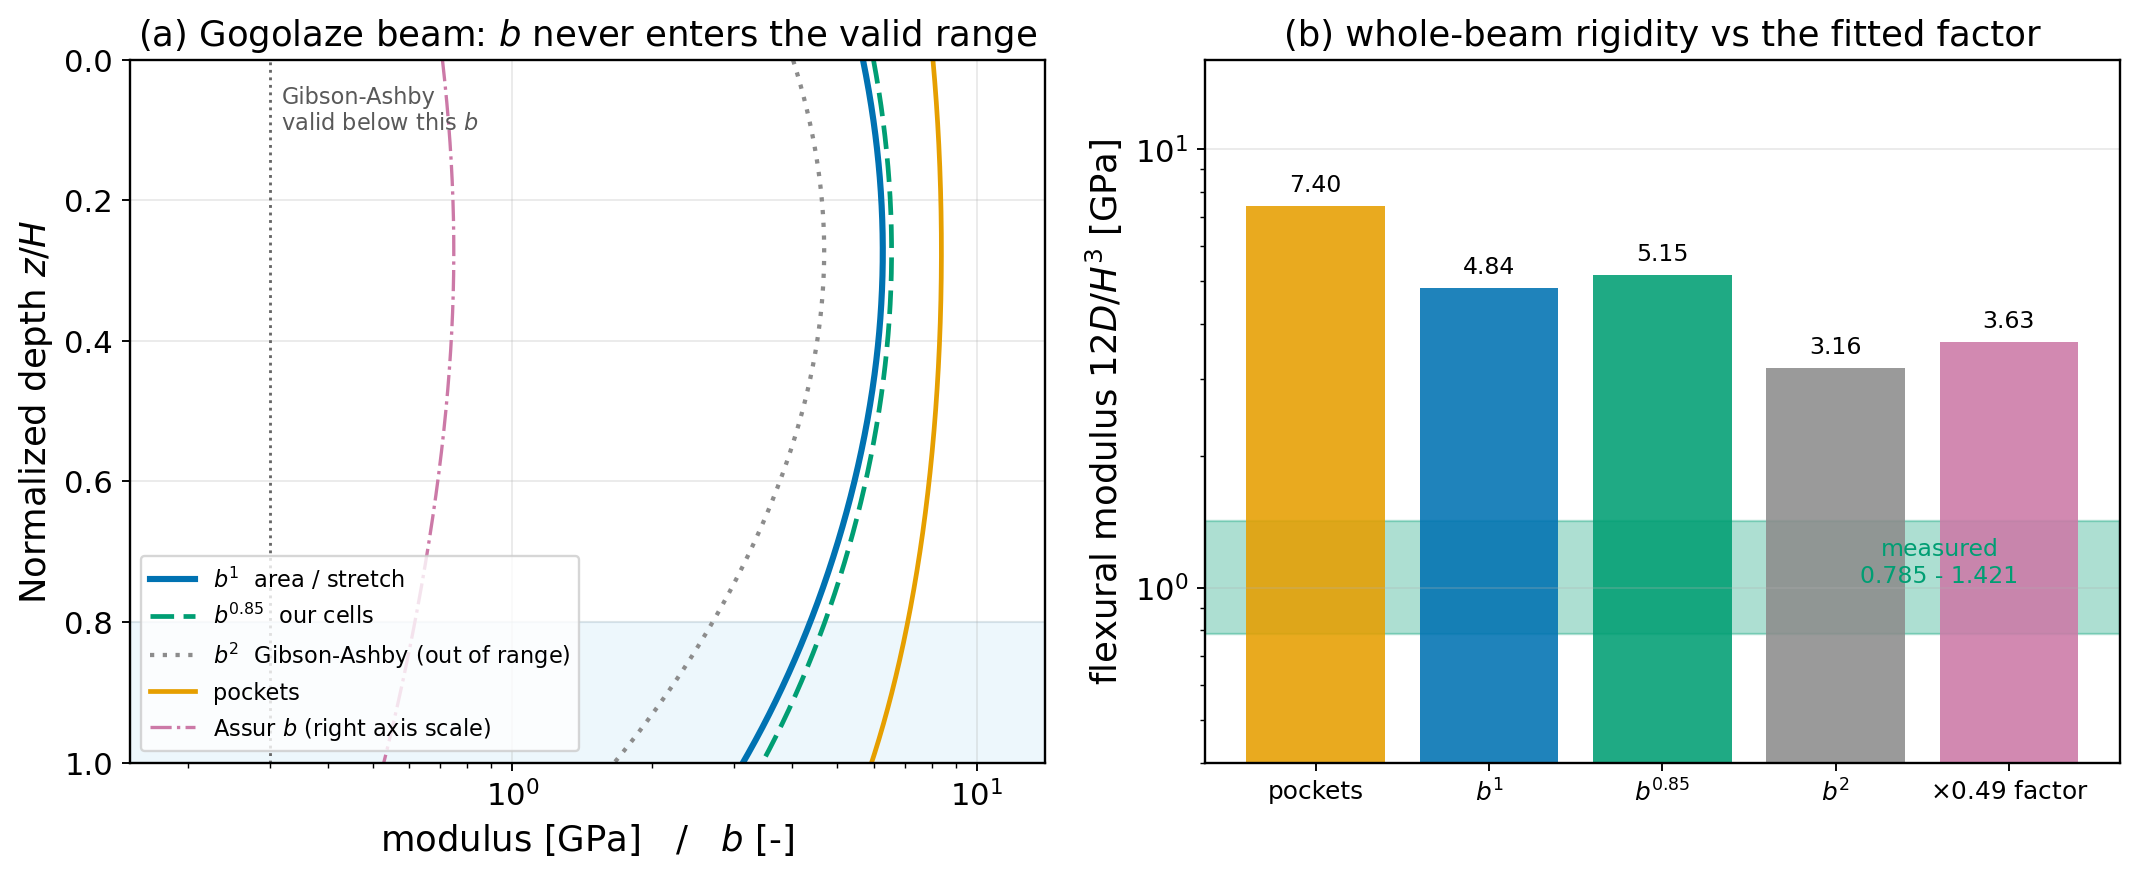
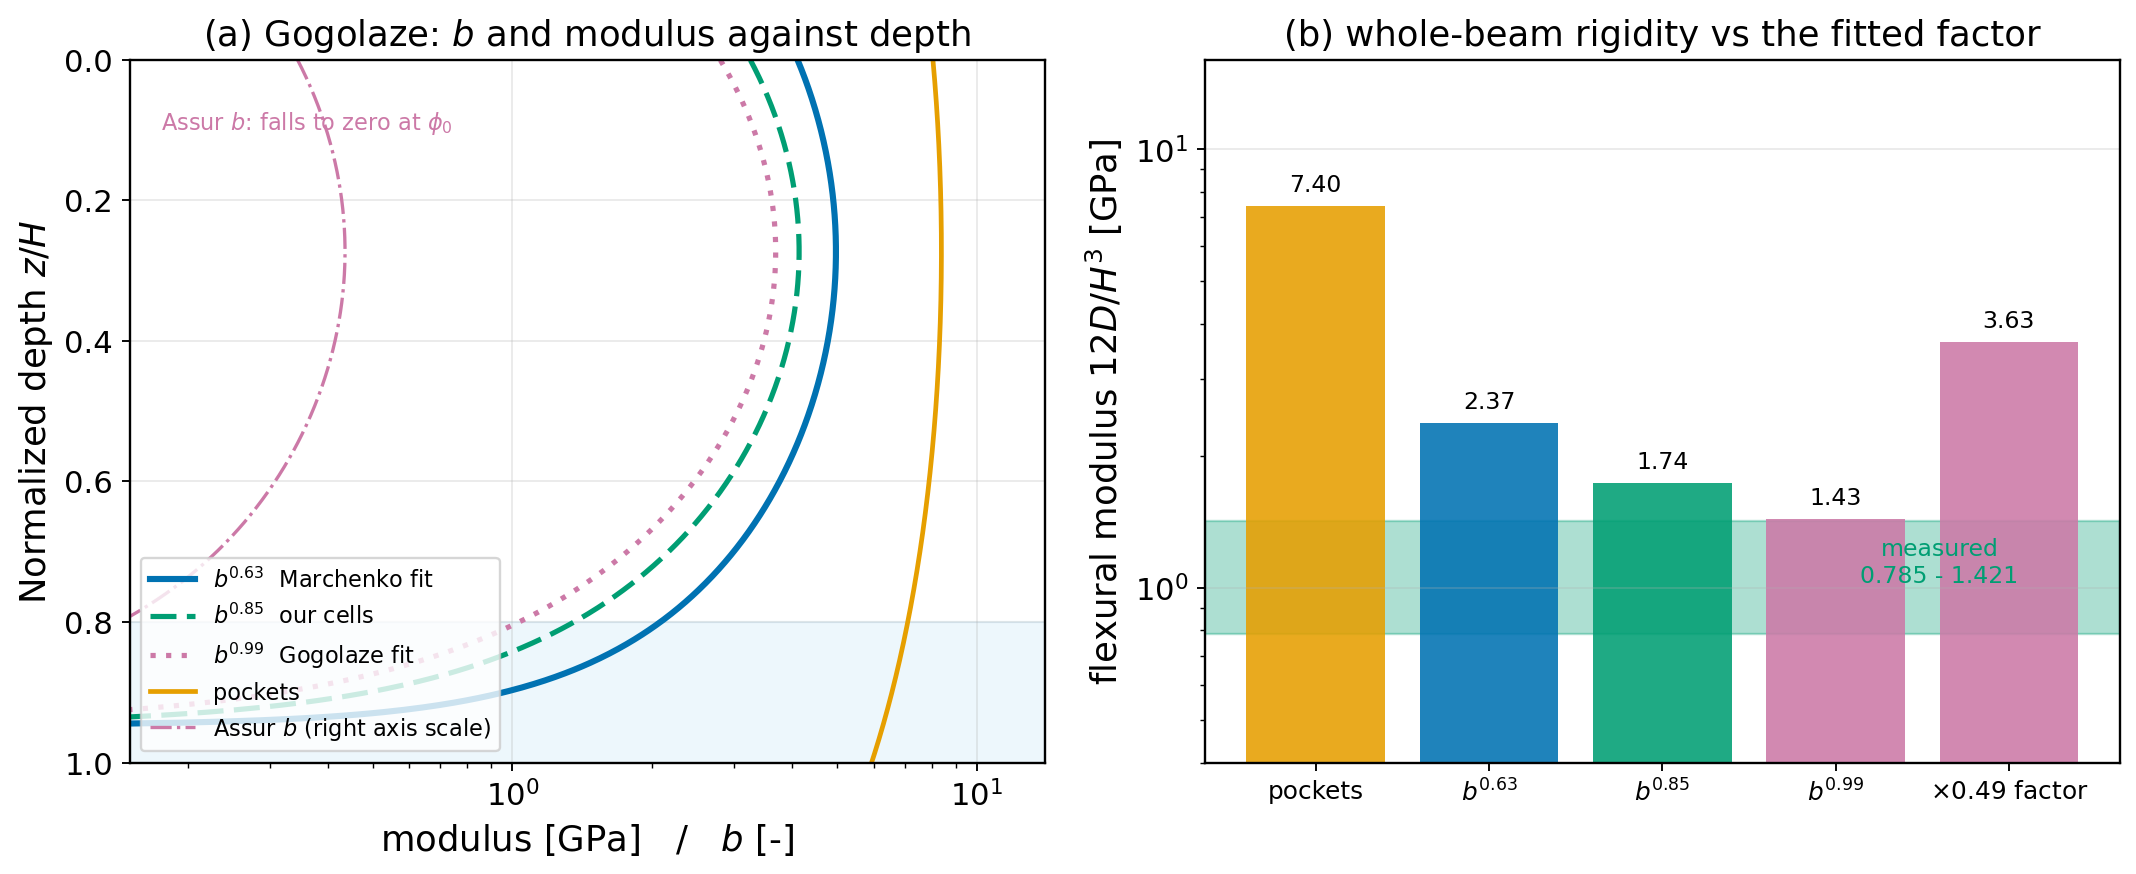
Apply the restored phi_0 to Kujala, and update all three figures
KUJALA. The inversion now asks for far less brine. With phi_0 = 0.20 his beams
imply phi rising 0.008 to 0.172 at b^0.63, or 0.004 to 0.137 at b^0.99, against
0.015 to 0.388 before. The salinity that demands falls from 13.9 ppt to 4.9,
which is ordinary first-year ice. It is still about twice the Baltic bound I
inferred from the basin rather than from his paper, so the objection stands but
is now within the uncertainty of that inference rather than a factor of seven
outside it.

His own column also exposes the closure's limit honestly: our synthetic profile
reaches phi = 0.227 at the base, past phi_0, where the lamellar plane holds no
ice and the closure returns zero. That is not a prediction of zero stiffness --
the material there is skeletal, a dendritic solid in seawater -- so the figure
masks the region and the shape metrics are computed on the valid range only.

GOGOLAZE. b^0.99 gives 1.433 GPa against his root-corrected 1.421, a ratio of
1.01, with nothing fitted but the exponent and that exponent agreeing with two
other sources.

MARCHENKO. Refitting on his own porosity now returns 0.83 rather than 2.80.

All three exponents -- 0.63, 0.83, 0.85, 0.99 across his profile, the refit,
our cells and Gogolaze's beam -- now sit between spreading compliance and
load-bearing area. The b^2 reference has been dropped from the figures, since
Gibson-Ashby is no longer needed to explain anything.

diff --git a/analysis/plot_physical_exponent.py b/analysis/plot_physical_exponent.py
@@ -1,12 +1,15 @@
-r"""Both comparisons at the exponent the geometry actually supports.
+r"""Both comparisons at the exponent the geometry supports, with phi_0 restored.
 
-Assur's b runs 0.52-0.78 down these columns. Gibson and Ashby's square law is
-derived for relative densities below about 0.3, so it is out of range at every
-depth by a factor near two; at b ~ 0.5-0.7 the lamellar plane is a perforated
-solid with ice in the majority, bending does not dominate, and the scaling is
-nearer linear. b^1 is drawn as the defensible choice and b^0.85, what our own
-cells report, beside it. b^2 is kept only as a greyed reference so the cost of
-honesty is visible rather than hidden.
+With Assur's constant back in place, b = 1 - sqrt(phi/0.20), the exponents the
+three sources ask for all fall between spreading compliance (b^0.5) and
+load-bearing area (b^1): 0.63 from Marchenko's profile, 0.85 from our own
+cells, 0.99 from Gogolaze's beam. No Gibson-Ashby is needed and no validity
+range is violated, which is why the earlier b^2 has been withdrawn.
+
+Above phi_0 the plane holds no ice and the closure returns zero. That is its
+stated limit, not a prediction, so the Kujala panel masks the region rather
+than drawing the curve to the axis: our synthetic column reaches phi = 0.227 at
+the base, past the point where a layered description applies at all.
 
     python3 analysis/plot_physical_exponent.py [outdir]
 """
@@ -31,12 +34,16 @@ K_BOT = np.array([0.86, 1.25, 1.56, 1.42])
 K_Z0 = np.array([0.37, 0.38, 0.39, 0.38])
 GOGO_APP, GOGO_COR, MATRIX_FACTOR = 0.785, 1.421, 0.49
 H_BEAM = 0.32
-GA_VALID = 0.30
+GA_VALID = 0.30      # Gibson-Ashby limit, no longer needed but kept for the axis
 
-EXPS = ((1.0, r'$b^{1}$  area / stretch', fs.BLUE, '-', 2.6, True),
-        (0.85, r'$b^{0.85}$  our cells', fs.GREEN, (0, (5, 2)), 2.0, True),
-        (2.0, r'$b^{2}$  Gibson-Ashby (out of range)', '0.55', (0, (1, 2)),
-         1.8, False))
+# The three exponents now come from three independent places and agree:
+# Marchenko's profile asks 0.63, our own cells report 0.85, Gogolaze's beam
+# asks 0.99. All lie between spreading compliance (b^0.5) and load-bearing
+# area (b^1), so the band drawn is between two named mechanisms.
+EXPS = ((0.63, r'$b^{0.63}$  Marchenko fit', fs.BLUE, '-', 2.6, True),
+        (0.85, r'$b^{0.85}$  our cells', fs.GREEN, (0, (5, 2)), 2.2, True),
+        (0.99, r'$b^{0.99}$  Gogolaze fit', fs.PURPLE, (0, (1, 2)), 2.2, True))
+MECH = (0.5, 1.0)          # spreading compliance to load-bearing area
 
 
 def neutral(E, z):
@@ -69,11 +76,23 @@ def fig_kujala(outdir):
                     [0.104, 0.086, 0.128, 0.168, 0.227, 0.227])
     k = np.interp(z, zc, m)[0] / law.pocket(phi)[0]
 
+    # Where phi exceeds phi_0 the lamellar plane holds no ice at all and the
+    # closure returns zero. That is its stated limit rather than a prediction of
+    # zero stiffness -- the material there is skeletal, a dendritic solid
+    # standing in seawater, and needs a description of its own. The curve is
+    # masked past that depth instead of being drawn to the axis.
+    valid = phi < law.PHI_0
+    z_lim = float(z[valid][-1]) if valid.any() else 1.0
+
     fig, ax = plt.subplots(1, 2, figsize=(12.8, 5.6))
     a = ax[0]
     for n, lab, c, ls, lw, inrange in EXPS:
-        a.plot(law.layered(phi, n) * k, z, color=c, ls=ls, lw=lw, label=lab,
-               zorder=3 if inrange else 2)
+        E = np.where(valid, law.layered(phi, n) * k, np.nan)
+        a.plot(E, z, color=c, ls=ls, lw=lw, label=lab, zorder=3)
+    a.axhspan(z_lim, 1.0, color='0.6', alpha=0.20, zorder=0)
+    a.text(0.42, 0.5 * (z_lim + 1.0),
+           r'$\phi>\phi_0$: skeletal,' '\n' 'outside the closure',
+           fontsize=9.5, color='0.3', va='center')
     a.plot(np.interp(z, zc, m), z, color=fs.ORANGE, lw=2.0, marker='o',
            markevery=40, ms=5, label='pocket column (current Fig. 18)')
     a.fill_betweenx([0, 1], [K_TOP.min(), K_BOT.min()],
@@ -96,10 +115,11 @@ def fig_kujala(outdir):
     Ep = np.interp(z, zc, m)
     series = [('pocket', [Ep[-1] / Ep[0], neutral(Ep, z), Ep[0] / flexural(Ep, z)],
                fs.ORANGE)]
+    zv, phiv = z[valid], phi[valid]
     for n, lab, c, ls, lw, inrange in EXPS:
-        E = law.layered(phi, n) * k
-        series.append((lab.split()[0], [E[-1] / E[0], neutral(E, z),
-                                        E[0] / flexural(E, z)], c))
+        E = law.layered(phiv, n) * k
+        series.append((lab.split()[0], [E[-1] / E[0], neutral(E, zv),
+                                        E[0] / flexural(E, zv)], c))
     series.append(('Kujala', theirs, fs.VERM))
 
     x = np.arange(3)
@@ -137,13 +157,12 @@ def fig_gogolaze(outdir):
     a.plot(law.pocket(phi), z, color=fs.ORANGE, lw=2.0, label='pockets')
     a.plot(law.assur_b(phi), z, color=fs.PURPLE, lw=1.4, ls='-.',
            label=r'Assur $b$ (right axis scale)')
-    a.axvline(GA_VALID, color='0.4', lw=1.2, ls=':')
-    a.text(GA_VALID * 1.06, 0.10, 'Gibson-Ashby\nvalid below this $b$',
-           fontsize=9.5, color='0.35')
+    a.text(0.175, 0.10, r'Assur $b$: falls to zero at $\phi_0$',
+           fontsize=9.5, color=fs.PURPLE)
     fs.depth_axis(a)
     a.set_xscale('log'); a.set_xlim(0.15, 14)
     a.set_xlabel("modulus [GPa]   /   $b$ [-]")
-    a.set_title('(a) Gogolaze beam: $b$ never enters the valid range')
+    a.set_title(r'(a) Gogolaze: $b$ and modulus against depth')
     a.legend(loc='lower left', fontsize=9.5)
 
     b = ax[1]

diff --git a/analysis/kujala_phi_plausible.py b/analysis/kujala_phi_plausible.py
@@ -58,10 +58,10 @@ def main():
     print('First-year bulk salinity runs about %.0f-%.0f ppt.\n'
           % S_PLAUSIBLE)
 
-    for exponent in (1.0, 2.0):
+    for exponent in (0.63, 0.99):
         phi = implied_phi(z, exponent)
         print('=' * 68)
-        print('IMPLIED BY KUJALA WITH b^%.0f : phi %.3f -> %.3f'
+        print('IMPLIED BY KUJALA WITH b^%.2f : phi %.3f -> %.3f'
               % (exponent, phi[0], phi[-1]))
         print('=' * 68)
         print('%-30s %9s %9s %9s %s'
@@ -86,11 +86,11 @@ def main():
           % S_BALTIC)
     print('  Baltic, grown from brackish water. He reports no salinity, but the')
     print('  basin does not supply oceanic values.')
-    for exponent in (1.0, 2.0):
+    for exponent in (0.63, 0.99):
         phi = implied_phi(z, exponent)
         best = min(np.nanmax(salinity_needed(phi, Ts + (Tb - Ts) * z))
                    for _, Ts, Tb in PROFILES)
-        print('\n  b^%.0f needs at least %.1f ppt somewhere in the column:'
+        print('\n  b^%.2f needs at least %.1f ppt somewhere in the column:'
               % (exponent, best))
         print('     against oceanic %.0f-%.0f ppt : %s'
               % (S_OCEANIC[0], S_OCEANIC[1],
